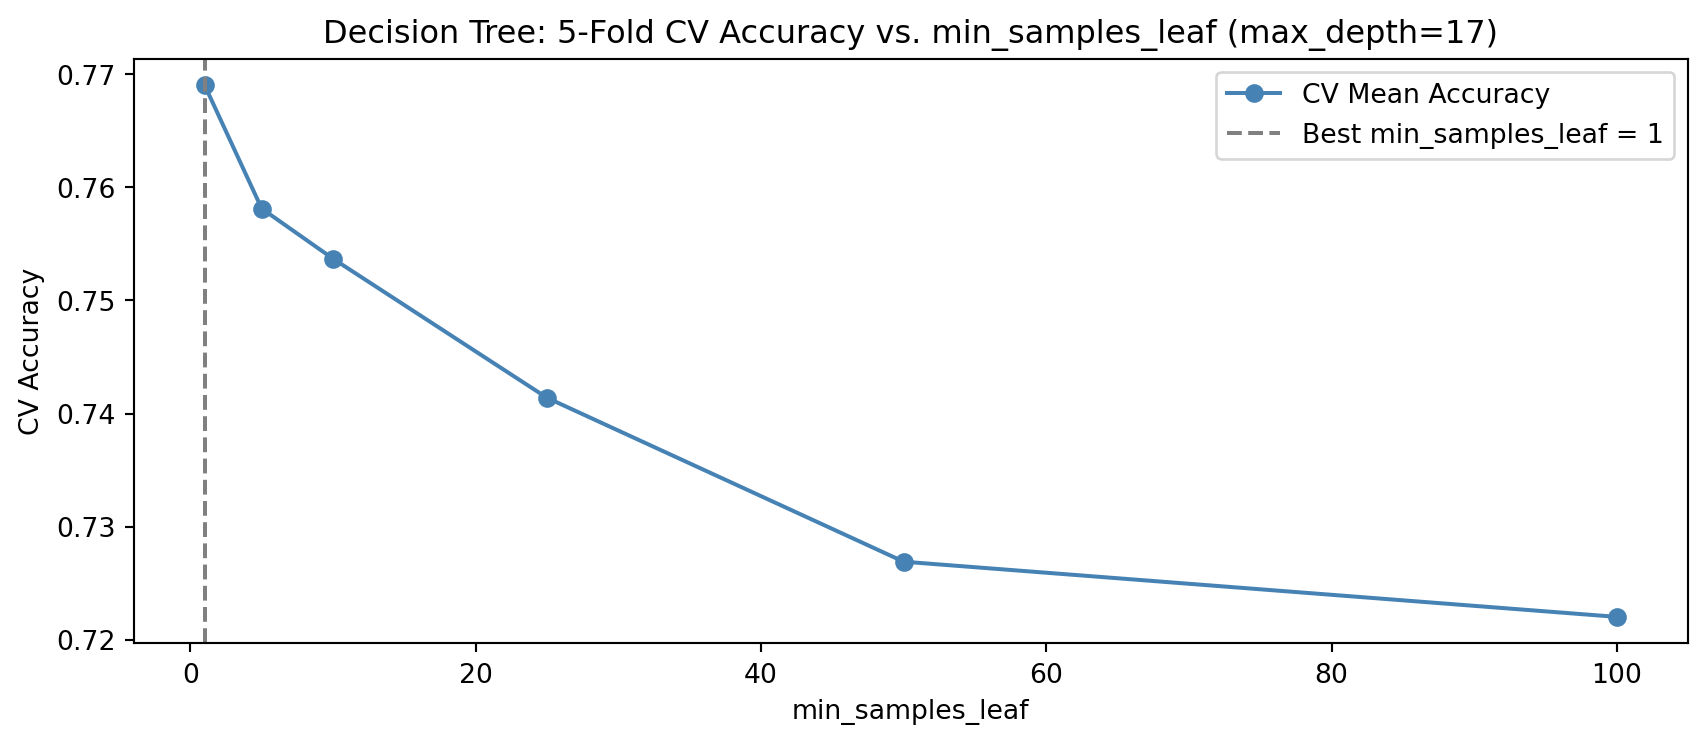
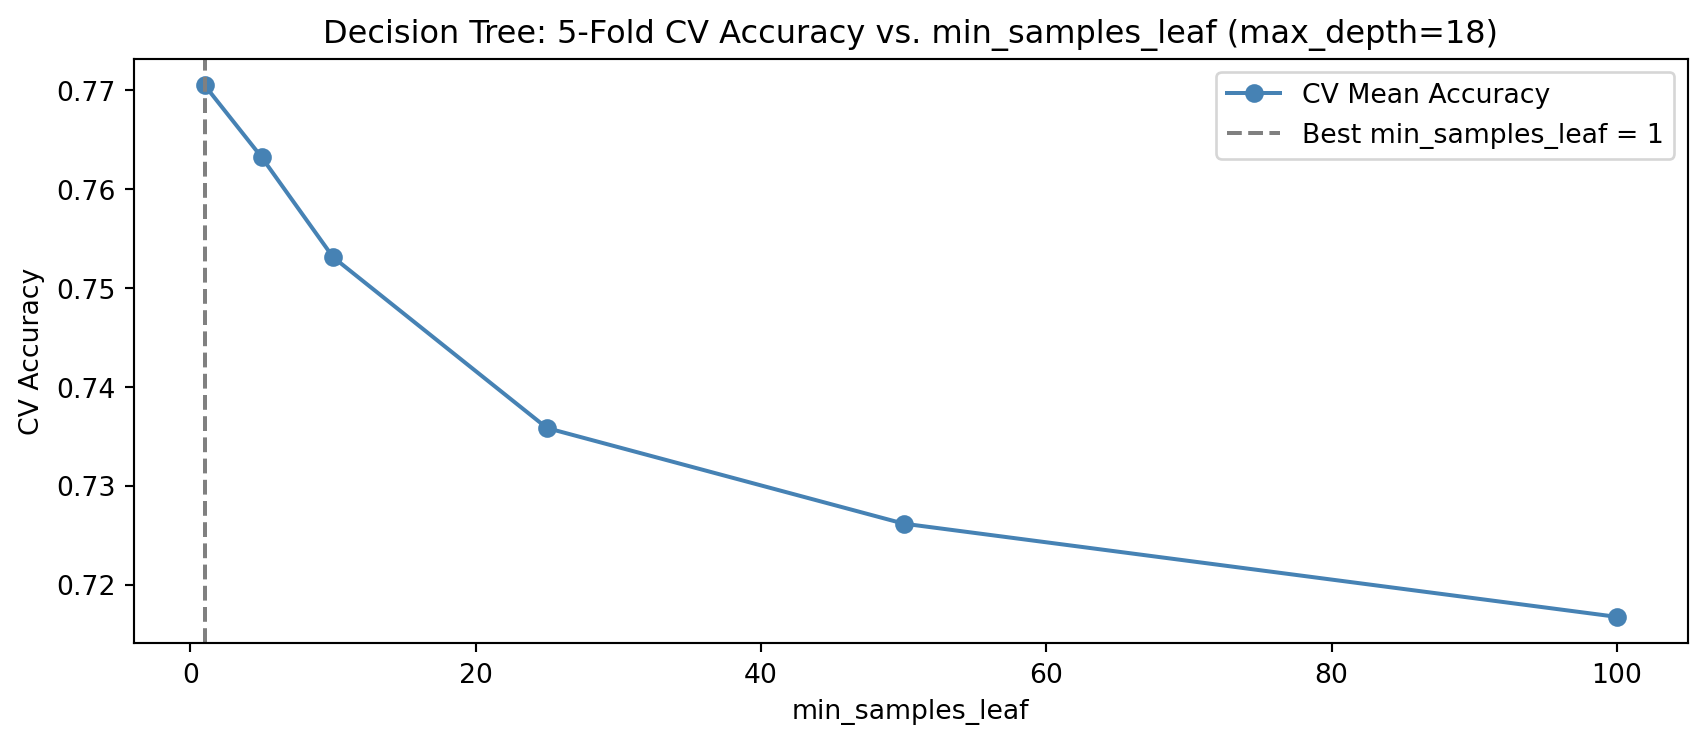
Add stratify to train test split and update results accordingly

diff --git a/docs/lab/lab6.html b/docs/lab/lab6.html
@@ -284,7 +284,7 @@ pre > code.sourceCode > span > a:first-child::before { text-decoration: underlin
 </section>
 <section id="step-1-load-and-explore-the-data" class="level2">
 <h2 class="anchored" data-anchor-id="step-1-load-and-explore-the-data">Step 1: Load and Explore the Data</h2>
-<div id="0e122984" class="cell" data-execution_count="1">
+<div id="c30124dd" class="cell" data-execution_count="1">
 <details class="code-fold">
 <summary>Code</summary>
 <div class="code-copy-outer-scaffold"><div class="sourceCode cell-code" id="cb1"><pre class="sourceCode python code-with-copy"><code class="sourceCode python"><span id="cb1-1"><a href="#cb1-1" aria-hidden="true" tabindex="-1"></a><span class="im">import</span> pandas <span class="im">as</span> pd</span>
@@ -296,7 +296,7 @@ pre > code.sourceCode > span > a:first-child::before { text-decoration: underlin
 <span id="cb1-7"><a href="#cb1-7" aria-hidden="true" tabindex="-1"></a><span class="im">from</span> sklearn.metrics <span class="im">import</span> accuracy_score</span></code></pre></div><button title="Copy to Clipboard" class="code-copy-button"><i class="bi"></i></button></div>
 </details>
 </div>
-<div id="61cf98e9" class="cell" data-execution_count="2">
+<div id="ca211387" class="cell" data-execution_count="2">
 <details class="code-fold">
 <summary>Code</summary>
 <div class="code-copy-outer-scaffold"><div class="sourceCode cell-code" id="cb2"><pre class="sourceCode python code-with-copy"><code class="sourceCode python"><span id="cb2-1"><a href="#cb2-1" aria-hidden="true" tabindex="-1"></a>forest <span class="op">=</span> fetch_ucirepo(<span class="bu">id</span><span class="op">=</span><span class="dv">31</span>)</span>
@@ -491,7 +491,7 @@ Name: count, dtype: int64</code></pre>
 <li><strong>44 binary:</strong> 4 wilderness area indicators and 40 soil type indicators</li>
 </ul>
 <p>No encoding or scaling is needed. We will sample 30,000 rows to keep lab runtimes manageable.</p>
-<div id="38f8c00e" class="cell" data-execution_count="3">
+<div id="bcd8d4a8" class="cell" data-execution_count="3">
 <details class="code-fold">
 <summary>Code</summary>
 <div class="code-copy-outer-scaffold"><div class="sourceCode cell-code" id="cb4"><pre class="sourceCode python code-with-copy"><code class="sourceCode python"><span id="cb4-1"><a href="#cb4-1" aria-hidden="true" tabindex="-1"></a>df_sample <span class="op">=</span> df.sample(n<span class="op">=</span><span class="dv">30_000</span>, random_state<span class="op">=</span><span class="dv">42</span>)</span>
@@ -501,21 +501,21 @@ Name: count, dtype: int64</code></pre>
 <span id="cb4-5"><a href="#cb4-5" aria-hidden="true" tabindex="-1"></a>y <span class="op">=</span> df_sample[<span class="st">'Cover_Type'</span>]</span></code></pre></div><button title="Copy to Clipboard" class="code-copy-button"><i class="bi"></i></button></div>
 </details>
 </div>
-<div id="2de392b5" class="cell" data-execution_count="4">
+<div id="88b3d503" class="cell" data-execution_count="4">
 <details class="code-fold">
 <summary>Code</summary>
-<div class="code-copy-outer-scaffold"><div class="sourceCode cell-code" id="cb5"><pre class="sourceCode python code-with-copy"><code class="sourceCode python"><span id="cb5-1"><a href="#cb5-1" aria-hidden="true" tabindex="-1"></a>X_train, X_test, y_train, y_test <span class="op">=</span> train_test_split(X, y, test_size<span class="op">=</span><span class="fl">0.33</span>, random_state<span class="op">=</span><span class="dv">42</span>)</span>
+<div class="code-copy-outer-scaffold"><div class="sourceCode cell-code" id="cb5"><pre class="sourceCode python code-with-copy"><code class="sourceCode python"><span id="cb5-1"><a href="#cb5-1" aria-hidden="true" tabindex="-1"></a>X_train, X_test, y_train, y_test <span class="op">=</span> train_test_split(X, y, test_size<span class="op">=</span><span class="fl">0.3</span>,stratify<span class="op">=</span>y, random_state<span class="op">=</span><span class="dv">42</span>)</span>
 <span id="cb5-2"><a href="#cb5-2" aria-hidden="true" tabindex="-1"></a><span class="bu">print</span>(<span class="ss">f"Training samples: </span><span class="sc">{</span><span class="bu">len</span>(X_train)<span class="sc">:,}</span><span class="ss">  |  Test samples: </span><span class="sc">{</span><span class="bu">len</span>(X_test)<span class="sc">:,}</span><span class="ss">"</span>)</span></code></pre></div><button title="Copy to Clipboard" class="code-copy-button"><i class="bi"></i></button></div>
 </details>
 <div class="cell-output cell-output-stdout">
-<pre><code>Training samples: 20,100  |  Test samples: 9,900</code></pre>
+<pre><code>Training samples: 21,000  |  Test samples: 9,000</code></pre>
 </div>
 </div>
 </section>
 <section id="step-3-fit-a-decision-tree" class="level2">
 <h2 class="anchored" data-anchor-id="step-3-fit-a-decision-tree">Step 3: Fit a Decision Tree</h2>
 <p>To start, we will fit a decision tree without specifying any hyperparameters.</p>
-<div id="243aa443" class="cell" data-execution_count="5">
+<div id="61ff02e9" class="cell" data-execution_count="5">
 <details class="code-fold">
 <summary>Code</summary>
 <div class="code-copy-outer-scaffold"><div class="sourceCode cell-code" id="cb7"><pre class="sourceCode python code-with-copy"><code class="sourceCode python"><span id="cb7-1"><a href="#cb7-1" aria-hidden="true" tabindex="-1"></a>dt_full <span class="op">=</span> DecisionTreeClassifier(random_state<span class="op">=</span><span class="dv">42</span>)</span>
@@ -531,7 +531,7 @@ Name: count, dtype: int64</code></pre>
 <div class="cell-output cell-output-stdout">
 <pre><code>Untuned tree depth:  35
 Training accuracy:         1.000
-Test accuracy:             0.770</code></pre>
+Test accuracy:             0.780</code></pre>
 </div>
 </div>
 <section id="uh-oh-look-at-the-difference-between-our-test-accuracy-and-our-training-accuracy.-it-looks-like-our-model-is-overfitting-lets-try-tuning-to-prevent-this." class="level5">
@@ -541,7 +541,7 @@ Test accuracy:             0.770</code></pre>
 <section id="step-4-tune-max_depth-with-cross-validation" class="level2">
 <h2 class="anchored" data-anchor-id="step-4-tune-max_depth-with-cross-validation">Step 4: Tune <code>max_depth</code> with Cross-Validation</h2>
 <p>Rather than evaluating each depth on the held-out test set (which leaks information), we use <strong>5-fold cross-validation</strong> on the training data. We will first tune <code>max_depth</code>, a hyperparameter which limits how many levels a tree can grow. Perform cross fold validation, iterating over a max depth from 1 to 20.</p>
-<div id="953580c7" class="cell" data-execution_count="6">
+<div id="96ae246b" class="cell" data-execution_count="6">
 <details class="code-fold">
 <summary>Code</summary>
 <div class="code-copy-outer-scaffold"><div class="sourceCode cell-code" id="cb9"><pre class="sourceCode python code-with-copy"><code class="sourceCode python"><span id="cb9-1"><a href="#cb9-1" aria-hidden="true" tabindex="-1"></a>depths <span class="op">=</span> <span class="bu">range</span>(<span class="dv">1</span>, <span class="dv">21</span>)</span>
@@ -568,7 +568,7 @@ Test accuracy:             0.770</code></pre>
 <span id="cb9-22"><a href="#cb9-22" aria-hidden="true" tabindex="-1"></a>plt.show()</span></code></pre></div><button title="Copy to Clipboard" class="code-copy-button"><i class="bi"></i></button></div>
 </details>
 <div class="cell-output cell-output-stdout">
-<pre><code>Best max_depth (5-fold CV): 17  (CV accuracy: 0.769)</code></pre>
+<pre><code>Best max_depth (5-fold CV): 18  (CV accuracy: 0.771)</code></pre>
 </div>
 <div class="cell-output cell-output-display">
 <div>
@@ -582,7 +582,7 @@ Test accuracy:             0.770</code></pre>
 <section id="step-5-tune-min_samples_leaf-with-cross-validation" class="level2">
 <h2 class="anchored" data-anchor-id="step-5-tune-min_samples_leaf-with-cross-validation">Step 5: Tune <code>min_samples_leaf</code> with Cross-Validation</h2>
 <p><code>min_samples_leaf</code> sets the minimum number of training samples required at any leaf node. Perform cross fold validation, iterating over the following numbers of minimum samples: <code>1, 5, 10, 25, 50, and 100</code>.</p>
-<div id="1a853d74" class="cell" data-execution_count="7">
+<div id="1c5ecb9f" class="cell" data-execution_count="7">
 <details class="code-fold">
 <summary>Code</summary>
 <div class="code-copy-outer-scaffold"><div class="sourceCode cell-code" id="cb11"><pre class="sourceCode python code-with-copy"><code class="sourceCode python"><span id="cb11-1"><a href="#cb11-1" aria-hidden="true" tabindex="-1"></a>leaf_sizes <span class="op">=</span> [<span class="dv">1</span>, <span class="dv">5</span>, <span class="dv">10</span>, <span class="dv">25</span>, <span class="dv">50</span>, <span class="dv">100</span>]</span>
@@ -610,7 +610,7 @@ Test accuracy:             0.770</code></pre>
 <span id="cb11-23"><a href="#cb11-23" aria-hidden="true" tabindex="-1"></a>plt.show()</span></code></pre></div><button title="Copy to Clipboard" class="code-copy-button"><i class="bi"></i></button></div>
 </details>
 <div class="cell-output cell-output-stdout">
-<pre><code>Best min_samples_leaf (5-fold CV): 1  (CV accuracy: 0.769)</code></pre>
+<pre><code>Best min_samples_leaf (5-fold CV): 1  (CV accuracy: 0.771)</code></pre>
 </div>
 <div class="cell-output cell-output-display">
 <div>
@@ -626,12 +626,12 @@ Test accuracy:             0.770</code></pre>
 </section>
 <section id="step-6-joint-tuning-with-gridsearchcv" class="level2">
 <h2 class="anchored" data-anchor-id="step-6-joint-tuning-with-gridsearchcv">Step 6: Joint Tuning with <code>GridSearchCV</code></h2>
-<p>Tuning hyperparameters one at a time ignores their interactions. <code>GridSearchCV</code> evaluates every combination in a parameter grid using cross-validation, finding the jointly optimal settings. Use the <code>max_depth</code> values of 5, 10, 15,17 and 20, the <code>min_samples_leaf</code> values of 1, 5, 10, and 25, and the <code>criterion</code> options of gini and entropy to find the best combination of parameters.</p>
-<div id="7355b2d0" class="cell" data-execution_count="8">
+<p>Tuning hyperparameters one at a time ignores their interactions. <code>GridSearchCV</code> evaluates every combination in a parameter grid using cross-validation, finding the jointly optimal settings. Use the <code>max_depth</code> values of 5, 10, 15, 16, 17,18, 19 20, the <code>min_samples_leaf</code> values of 1, 5, 10, and 25, and the <code>criterion</code> options of gini and entropy to find the best combination of parameters.</p>
+<div id="ee36db37" class="cell" data-execution_count="8">
 <details class="code-fold">
 <summary>Code</summary>
 <div class="code-copy-outer-scaffold"><div class="sourceCode cell-code" id="cb13"><pre class="sourceCode python code-with-copy"><code class="sourceCode python"><span id="cb13-1"><a href="#cb13-1" aria-hidden="true" tabindex="-1"></a>param_grid <span class="op">=</span> {</span>
-<span id="cb13-2"><a href="#cb13-2" aria-hidden="true" tabindex="-1"></a>    <span class="st">'max_depth'</span>:        [<span class="dv">5</span>, <span class="dv">10</span>, <span class="dv">15</span>, <span class="dv">17</span>, <span class="dv">20</span>],</span>
+<span id="cb13-2"><a href="#cb13-2" aria-hidden="true" tabindex="-1"></a>    <span class="st">'max_depth'</span>:        [<span class="dv">5</span>, <span class="dv">10</span>, <span class="dv">15</span>, <span class="dv">16</span>, <span class="dv">17</span>,<span class="dv">18</span>, <span class="dv">19</span>, <span class="dv">20</span>],</span>
 <span id="cb13-3"><a href="#cb13-3" aria-hidden="true" tabindex="-1"></a>    <span class="st">'min_samples_leaf'</span>: [<span class="dv">1</span>, <span class="dv">5</span>, <span class="dv">10</span>, <span class="dv">25</span>],</span>
 <span id="cb13-4"><a href="#cb13-4" aria-hidden="true" tabindex="-1"></a>    <span class="st">'criterion'</span>:        [<span class="st">'gini'</span>, <span class="st">'entropy'</span>]</span>
 <span id="cb13-5"><a href="#cb13-5" aria-hidden="true" tabindex="-1"></a>}</span>
@@ -652,8 +652,8 @@ Test accuracy:             0.770</code></pre>
 <span id="cb13-20"><a href="#cb13-20" aria-hidden="true" tabindex="-1"></a><span class="bu">print</span>(<span class="ss">f"Test accuracy:    </span><span class="sc">{</span>dt_acc<span class="sc">:.3f}</span><span class="ss">"</span>)</span></code></pre></div><button title="Copy to Clipboard" class="code-copy-button"><i class="bi"></i></button></div>
 </details>
 <div class="cell-output cell-output-stdout">
-<pre><code>Best parameters:  {'criterion': 'gini', 'max_depth': 17, 'min_samples_leaf': 1}
-Test accuracy:    0.768</code></pre>
+<pre><code>Best parameters:  {'criterion': 'gini', 'max_depth': 18, 'min_samples_leaf': 1}
+Test accuracy:    0.776</code></pre>
 </div>
 </div>
 <blockquote class="blockquote">
@@ -675,7 +675,7 @@ Test accuracy:    0.768</code></pre>
 </div>
 <div id="callout-2" class="callout-2-contents callout-collapse collapse">
 <div class="callout-body-container callout-body">
-<div id="71df2d5f" class="cell" data-execution_count="9">
+<div id="d0096983" class="cell" data-execution_count="9">
 <details class="code-fold">
 <summary>Code</summary>
 <div class="code-copy-outer-scaffold"><div class="sourceCode cell-code" id="cb15"><pre class="sourceCode python code-with-copy"><code class="sourceCode python"><span id="cb15-1"><a href="#cb15-1" aria-hidden="true" tabindex="-1"></a><span class="bu">print</span>(<span class="st">"Cover type distribution (training set):"</span>)</span>
@@ -684,20 +684,20 @@ Test accuracy:    0.768</code></pre>
 <div class="cell-output cell-output-stdout">
 <pre><code>Cover type distribution (training set):
 Cover_Type
-1    7423
-2    9749
-3    1257
-4      90
-5     297
-6     602
-7     682
+1     7745
+2    10190
+3     1281
+4       96
+5      331
+6      631
+7      726
 Name: count, dtype: int64</code></pre>
 </div>
 </div>
 </div>
 </div>
 </div>
-<div id="e522f4eb" class="cell" data-execution_count="10">
+<div id="59c0adec" class="cell" data-execution_count="10">
 <details class="code-fold">
 <summary>Code</summary>
 <div class="code-copy-outer-scaffold"><div class="sourceCode cell-code" id="cb17"><pre class="sourceCode python code-with-copy"><code class="sourceCode python"><span id="cb17-1"><a href="#cb17-1" aria-hidden="true" tabindex="-1"></a>dt_viz <span class="op">=</span> DecisionTreeClassifier(</span>
@@ -735,7 +735,7 @@ Name: count, dtype: int64</code></pre>
 <li>Look at the observation below. What Forest Cover type would this observation be classified as with our tree above?</li>
 </ol>
 </blockquote>
-<div id="a3483138" class="cell" data-execution_count="11">
+<div id="6dc17d24" class="cell" data-execution_count="11">
 <div class="cell-output cell-output-display" data-execution_count="11">
 <pre><code>Elevation                             2006
 Aspect                                  53
@@ -748,6 +748,8 @@ Hillshade_9am                          227
 Hillshade_Noon                         215
 Hillshade_3pm                          120
 Horizontal_Distance_To_Fire_Points     366
+Wilderness_Area1                         0
+Cover_Type                               4
 Name: 2067, dtype: int64</code></pre>
 </div>
 </div>
@@ -755,7 +757,7 @@ Name: 2067, dtype: int64</code></pre>
 <section id="step-8-feature-importance" class="level2">
 <h2 class="anchored" data-anchor-id="step-8-feature-importance">Step 8: Feature Importance</h2>
 <p>With 54 features, many soil type indicators will have very little importance. Create a plot showing the top 15 most important features.</p>
-<div id="4285cca9" class="cell" data-execution_count="12">
+<div id="fb703212" class="cell" data-execution_count="12">
 <details class="code-fold">
 <summary>Code</summary>
 <div class="code-copy-outer-scaffold"><div class="sourceCode cell-code" id="cb19"><pre class="sourceCode python code-with-copy"><code class="sourceCode python"><span id="cb19-1"><a href="#cb19-1" aria-hidden="true" tabindex="-1"></a>feat_imp <span class="op">=</span> pd.Series(dt_best.feature_importances_, index<span class="op">=</span>features).sort_values(ascending<span class="op">=</span><span class="va">False</span>)</span>
